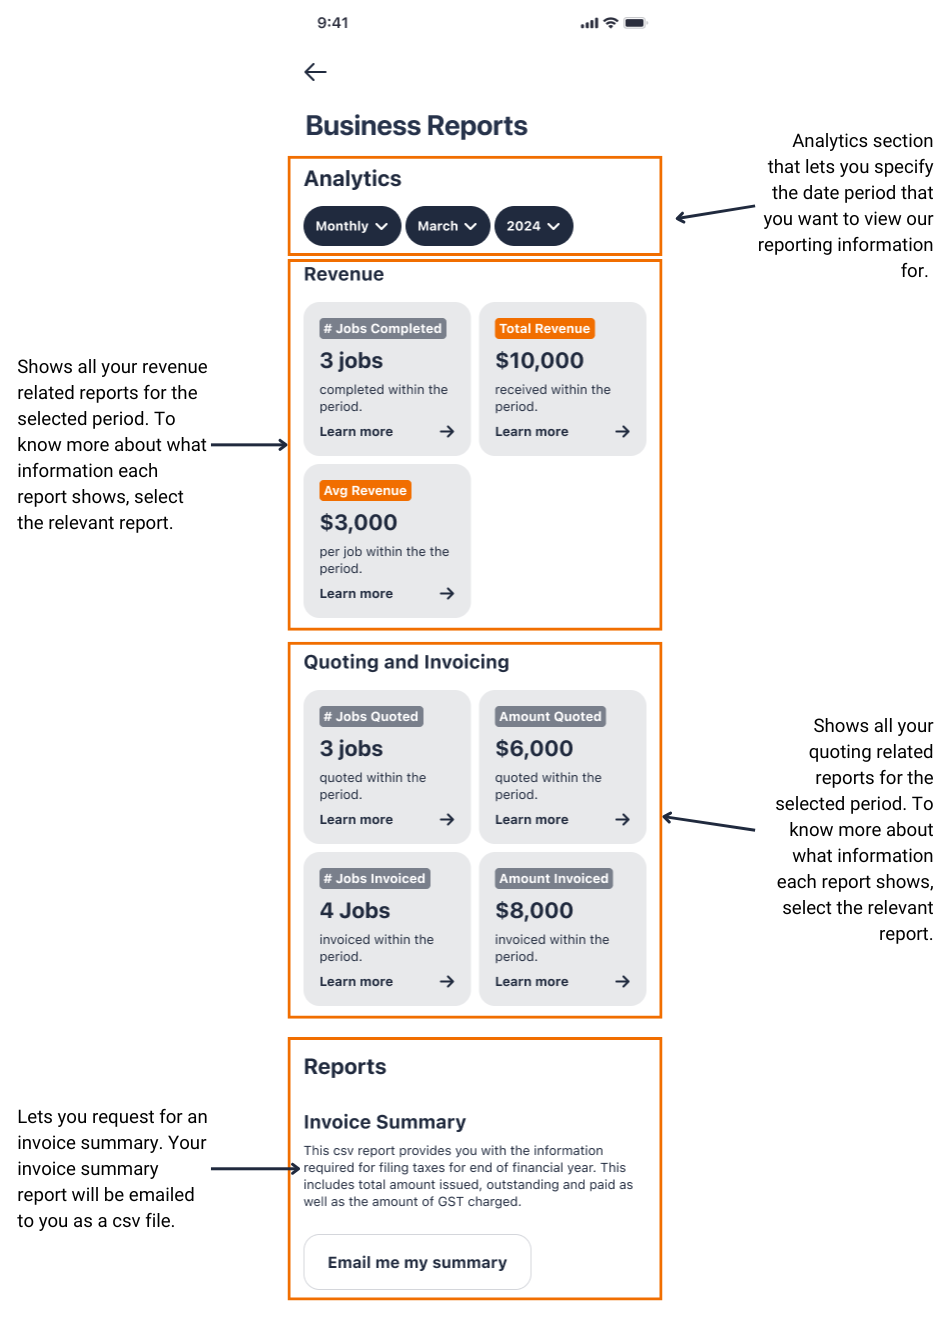
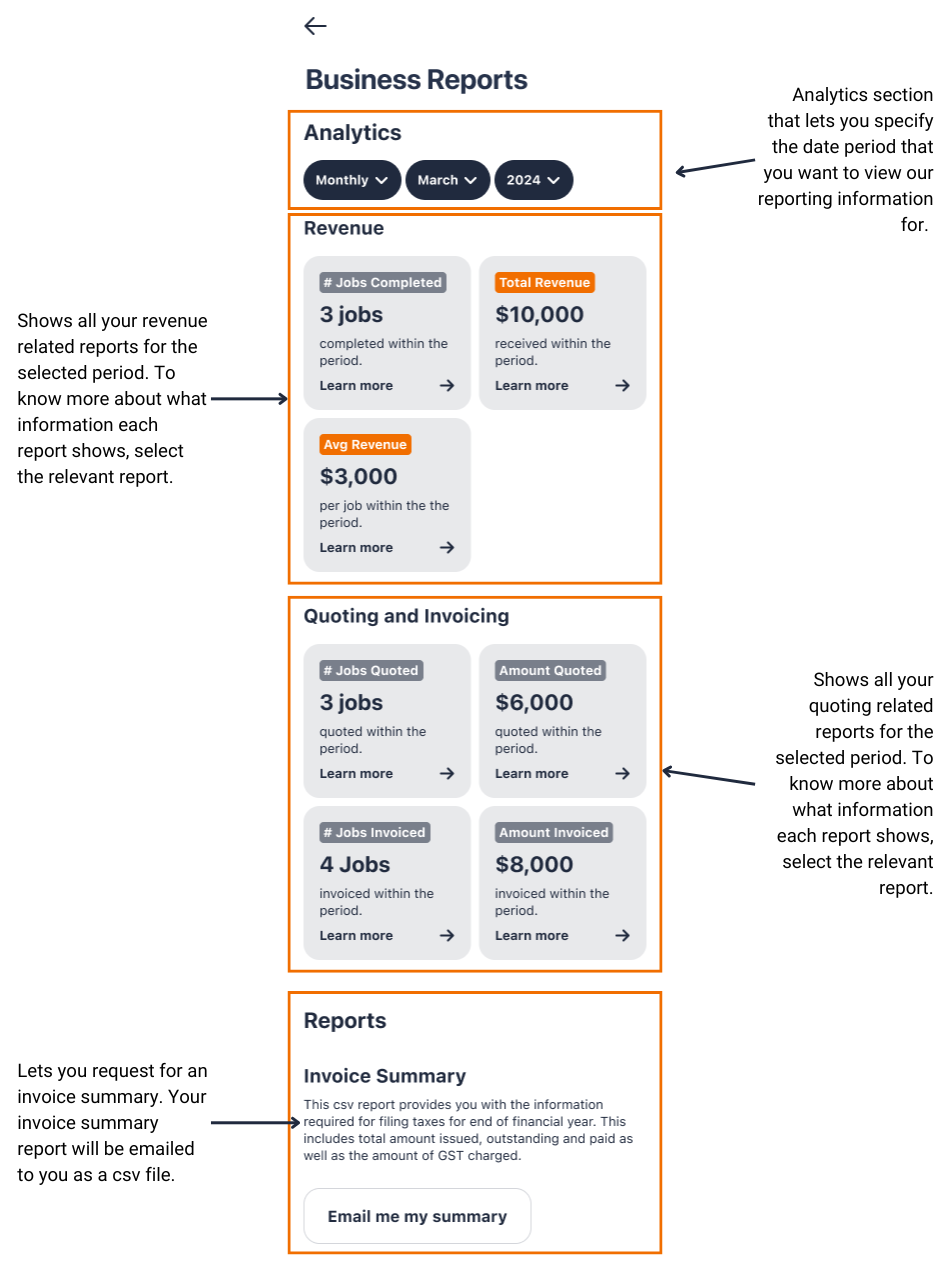
Committing file:///C:/Tradiecore - Publishing/Resources/Scripts/require.config.js file:///C:/Tradiecore - Publishing/Data/HelpSystem.xml file:///C:/Tradiecore - Publishing/Data/HelpSystem.js file:///C:/Tradiecore - Publishing/Content/Resources/A_Images/Settings/Business_Reports_Intro_STP.png file://

diff --git a/Content/A_Settings/My Business/Business_Reports_intro.htm b/Content/A_Settings/My Business/Business_Reports_intro.htm
@@ -178,7 +178,7 @@
                                                     <h1>Business Reports</h1>
                                                     <p class="Body">The Business Reports feature gives you a snapshot of key metrics about your business, so you can track business performance and jobs at a glance. Reports are grouped into two categories: revenue related reports, and quoting and invoicing related reports. </p>
                                                     <p class="Body">This feature is currently available on the app only.</p>
-                                                    <p><a class="MCPopupThumbnailLink MCPopupThumbnailPopup" href="../../Resources/A_Images/Settings/Business_Reports_Intro_STP.png"><img class="MCPopupThumbnail img imgIntro" data-mc-width="950" data-mc-height="1322" src="../../Resources/A_Images/Settings/Business_Reports_Intro_STP.png" title="Business Reports screen introduction" tabindex="" style="mc-thumbnail: popup;width: 512px;height: 722px;mc-thumbnail-max-height: 722px;max-height: 722px;" /></a>
+                                                    <p><a class="MCPopupThumbnailLink MCPopupThumbnailPopup" href="../../Resources/A_Images/Settings/Business_Reports_Intro_STP.png"><img class="MCPopupThumbnail img" data-mc-width="950" data-mc-height="1276" src="../../Resources/A_Images/Settings/Business_Reports_Intro_STP.png" title="Business Reports screen introduction" tabindex="" style="mc-thumbnail: popup;width: 315px;height: 438px;mc-thumbnail-max-height: 500px;max-height: 500px;" /></a>
                                                     </p>
                                                     <h2 class="BodyContent">Filtering by period</h2>
                                                     <p class="Body">Use the Analytics filters at the top of the screen to choose the month and year you want to view reports for.</p>

diff --git a/Data/HelpSystem.js b/Data/HelpSystem.js
@@ -1,6 +1,6 @@
 var xmlHelpSystemData = "";
 xmlHelpSystemData += '<?xml version=\"1.0\" encoding=\"utf-8\"?>';
-xmlHelpSystemData += '<WebHelpSystem DefaultUrl=\"Content/hipagesbusinessHome.htm\" Toc=\"Data/Tocs/Master.js\" Index=\"Data/Index.js\" Concepts=\"Data/Concepts.js\" Glossary=\"Data/Glossary.js\" SearchDatabase=\"Data/Search.js\" Synonyms=\"Data/Synonyms.xml\" SearchUrl=\"Content/Search1.htm\" PathToScriptsFolder=\"Resources/Scripts/\" SkinName=\"HTML5 - Top Navigation\" SkinID=\"HTML5_Top_Navigation\" Multilingual=\"false\" Skins=\"HTML5 - Top Navigation,Web HTML5 - Top Navigation\" BuildTime=\"15/07/2026 2:48:35 PM\" BuildVersion=\"21.1.9396.41248\" TargetType=\"WebHelp2\" SkinTemplateFolder=\"Skin/\" InPreviewMode=\"false\" TopNavTocPath=\"true\" MoveOutputContentToRoot=\"false\" ReplaceReservedCharacters=\"false\" MakeFileLowerCase=\"false\" UseCustomTopicFileExtension=\"false\" PreventExternalUrls=\"false\" EnableResponsiveOutput=\"true\" IncludeGlossarySearchResults=\"true\" ResultsPerPage=\"10\" FeaturedSnippetsScopeID=\"AllFiles\" FeaturedSnippetsResults=\"1\" KnowledgePanelResults=\"1\" IncludeMicroContent=\"true\" xml:lang=\"en-au\" LanguageName=\"English\" SearchEngine=\"MadCapSearch\" IncludeCSHRuntime=\"true\" DebugMode=\"false\" ShowMadCapBacklink=\"false\" HasELearning=\"false\">';
+xmlHelpSystemData += '<WebHelpSystem DefaultUrl=\"Content/hipagesbusinessHome.htm\" Toc=\"Data/Tocs/Master.js\" Index=\"Data/Index.js\" Concepts=\"Data/Concepts.js\" Glossary=\"Data/Glossary.js\" SearchDatabase=\"Data/Search.js\" Synonyms=\"Data/Synonyms.xml\" SearchUrl=\"Content/Search1.htm\" PathToScriptsFolder=\"Resources/Scripts/\" SkinName=\"HTML5 - Top Navigation\" SkinID=\"HTML5_Top_Navigation\" Multilingual=\"false\" Skins=\"HTML5 - Top Navigation,Web HTML5 - Top Navigation\" BuildTime=\"15/07/2026 2:57:33 PM\" BuildVersion=\"21.1.9396.41248\" TargetType=\"WebHelp2\" SkinTemplateFolder=\"Skin/\" InPreviewMode=\"false\" TopNavTocPath=\"true\" MoveOutputContentToRoot=\"false\" ReplaceReservedCharacters=\"false\" MakeFileLowerCase=\"false\" UseCustomTopicFileExtension=\"false\" PreventExternalUrls=\"false\" EnableResponsiveOutput=\"true\" IncludeGlossarySearchResults=\"true\" ResultsPerPage=\"10\" FeaturedSnippetsScopeID=\"AllFiles\" FeaturedSnippetsResults=\"1\" KnowledgePanelResults=\"1\" IncludeMicroContent=\"true\" xml:lang=\"en-au\" LanguageName=\"English\" SearchEngine=\"MadCapSearch\" IncludeCSHRuntime=\"true\" DebugMode=\"false\" ShowMadCapBacklink=\"false\" HasELearning=\"false\">';
 xmlHelpSystemData += '    <CatapultSkin Version=\"6\" SkinType=\"WebHelp2\" ComponentType=\"MasterPage\" TemplateName=\"Fluid\" Comment=\"HTML5 Fluid Layout\" EnableResponsiveOutput=\"true\" RemoveImagesOnSave=\"true\" AutoSyncTOC=\"false\" LogoUrl=\"hipagesbusinessHome.htm\" EmbedVisibleTocEntries=\"true\" SkinID=\"HTML5_Top_Navigation\" Name=\"HTML5 - Top Navigation\" SkinClass=\"_Skins_HTML5___Top_Navigation\" HideNavOnStartup=\"False\">';
 xmlHelpSystemData += '        <WebHelpOptions NavigationPanePosition=\"Right\" EnableSticky=\"All\" TopMenuDepth=\"5\" MainMenuPosition=\"Top\" OffCanvasMenuStyle=\"Drilldown\" />';
 xmlHelpSystemData += '        <ProxyOptions FAQProxyViewMode=\"PlainText\" KnowledgeProxyViewMode=\"Truncated\" PromotionProxyViewMode=\"PlainText\" />';

diff --git a/Resources/Scripts/require.config.js b/Resources/Scripts/require.config.js
@@ -1,3 +1,3 @@
 require.config({
-    urlArgs: 't=639197237151239202'
+    urlArgs: 't=639197242535636762'
 });